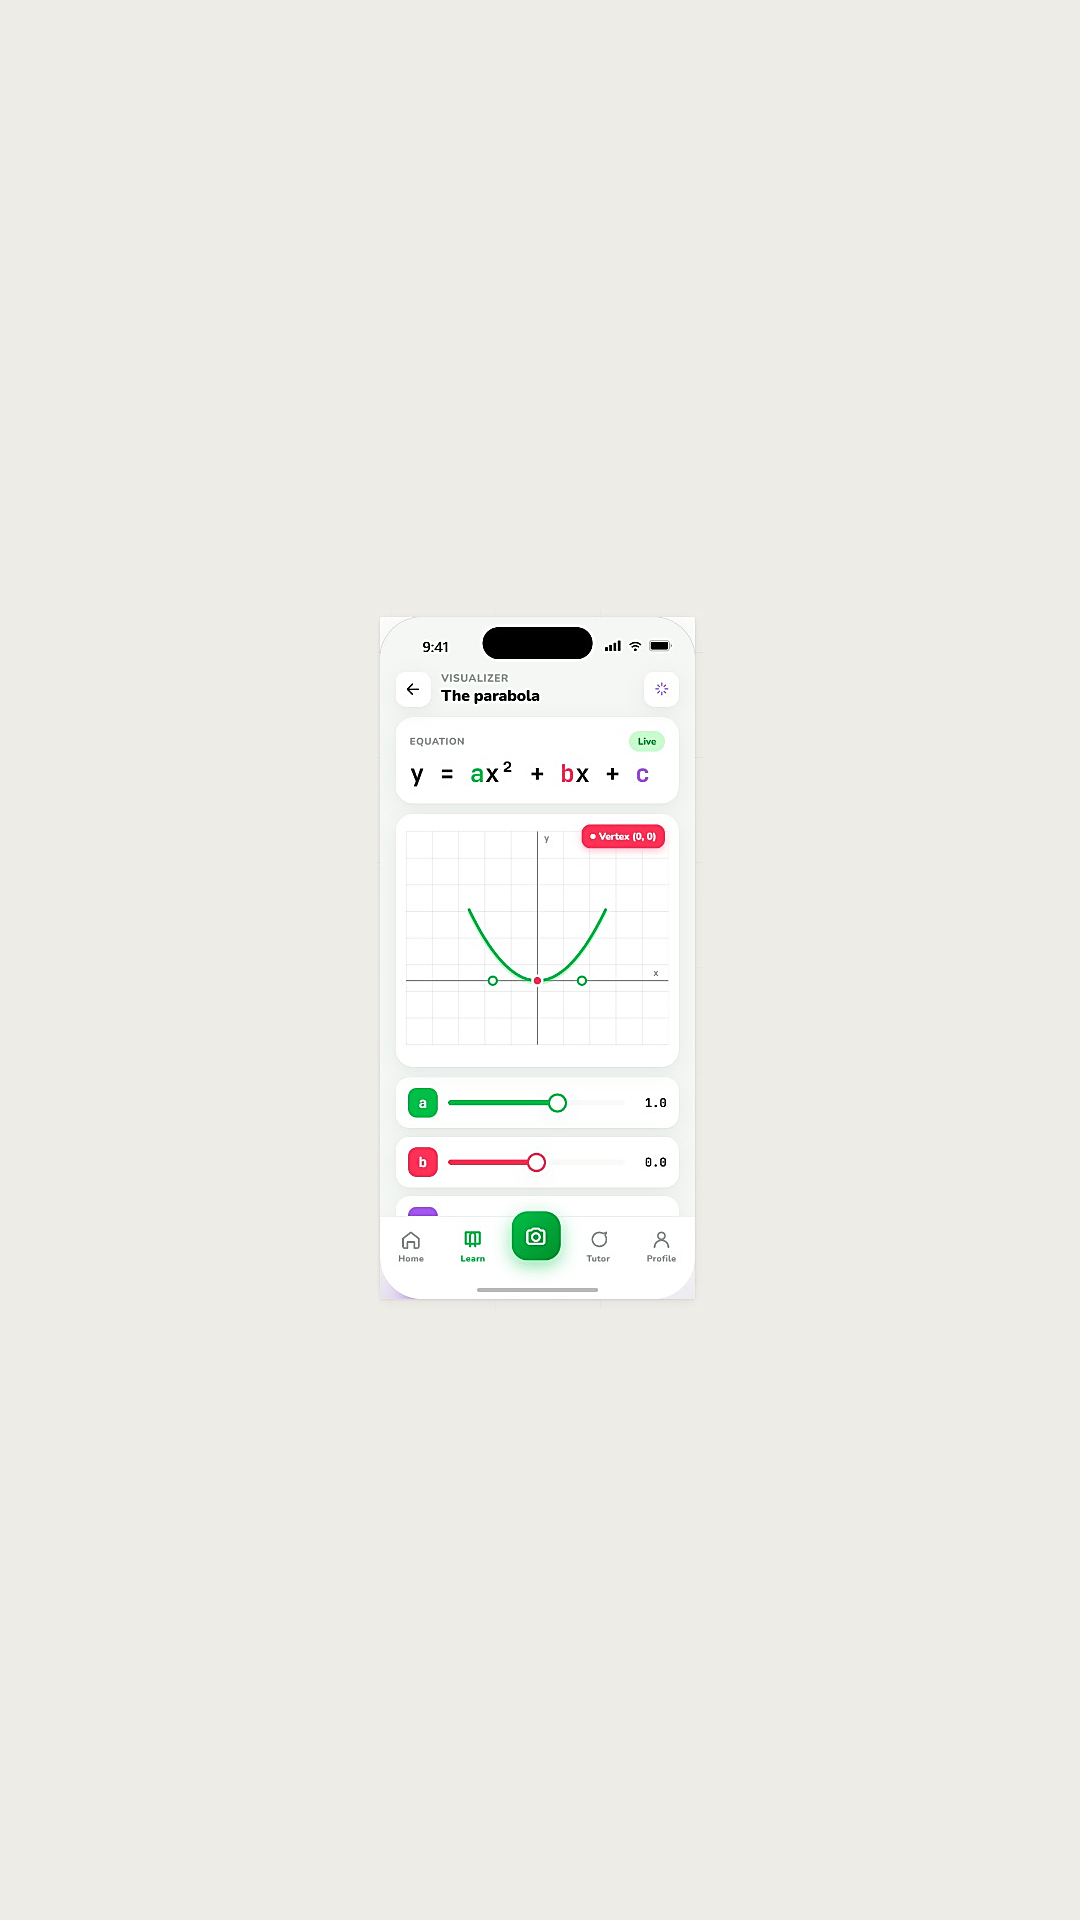
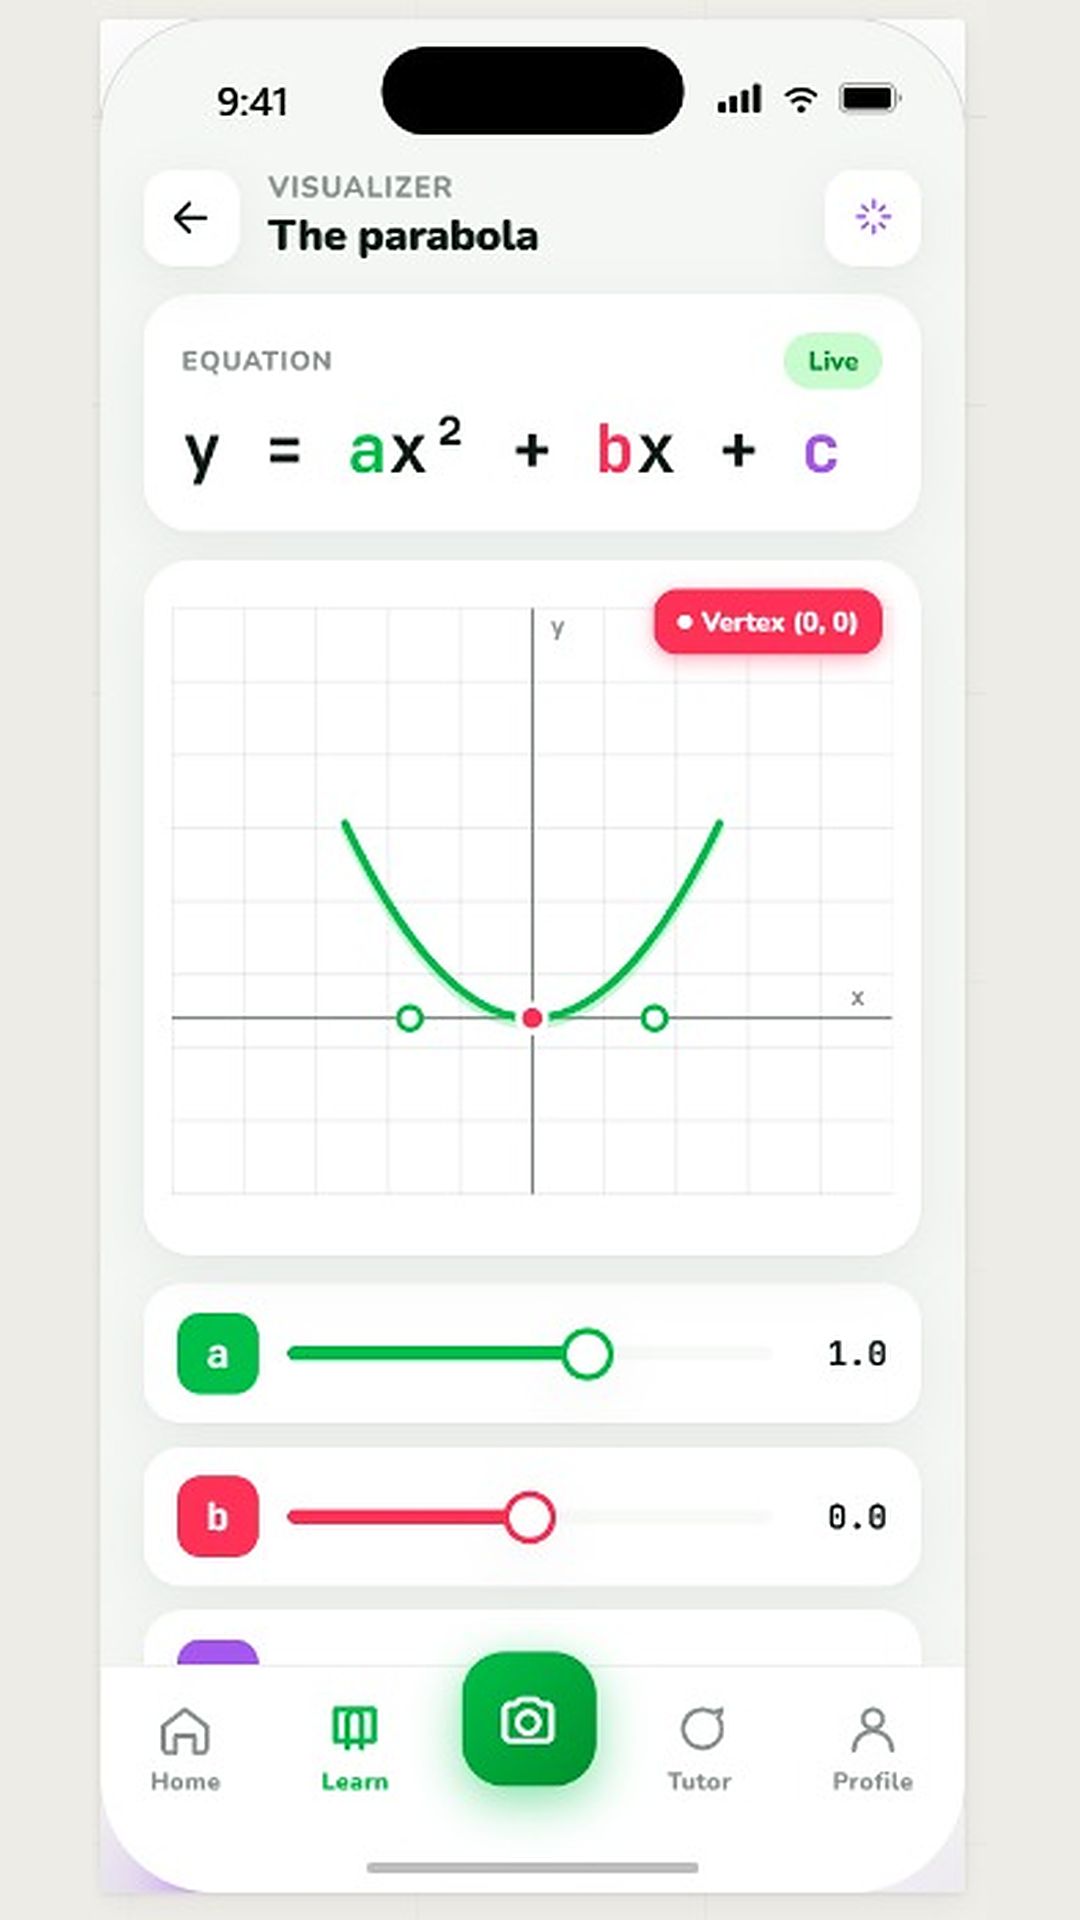
Fix screenshot upscale so app content fills the frame
PIL's Image.thumbnail() never enlarges an image, only shrinks it. Since
the source screenshots are much smaller than the 1080x1920/1280x2276
target canvases, the previous output left the app UI as a tiny inset
floating in a mostly-empty background instead of filling the frame.

Switch to an explicit resize() so the screenshot content now fills the
full height edge-to-edge (matching real device screenshots), with only
a slim color-matched margin on the sides where needed to satisfy
Google Play's 9:16 aspect ratio requirement without cropping any UI.

Claude-Session: https://claude.ai/code/session_01Pg4GhhLi1rDuj5SCi8CG4j

diff --git a/UI/store/google-play/convert_screenshots.py b/UI/store/google-play/convert_screenshots.py
@@ -33,8 +33,11 @@ def process(src_path, target_w, target_h):
 
     canvas = Image.new("RGB", (target_w, target_h), fill)
 
-    fg = im.copy()
-    fg.thumbnail((target_w, target_h), Image.LANCZOS)
+    # Image.thumbnail() never enlarges, only shrinks - these source shots are
+    # much smaller than the target canvas, so scale up explicitly to fill it.
+    scale = min(target_w / im.width, target_h / im.height)
+    new_size = (round(im.width * scale), round(im.height * scale))
+    fg = im.resize(new_size, Image.LANCZOS)
     # counteract the softness introduced by upscaling small source screenshots
     fg = fg.filter(ImageFilter.UnsharpMask(radius=1.5, percent=60, threshold=2))
 
